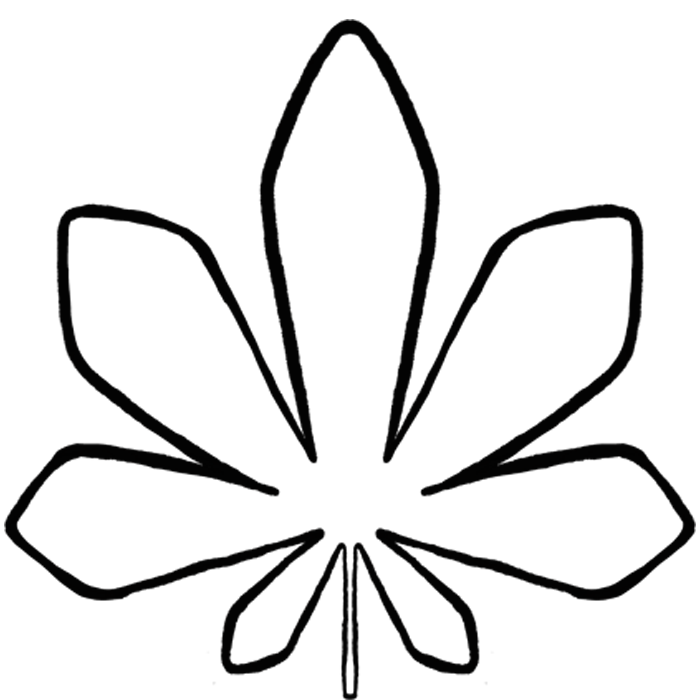
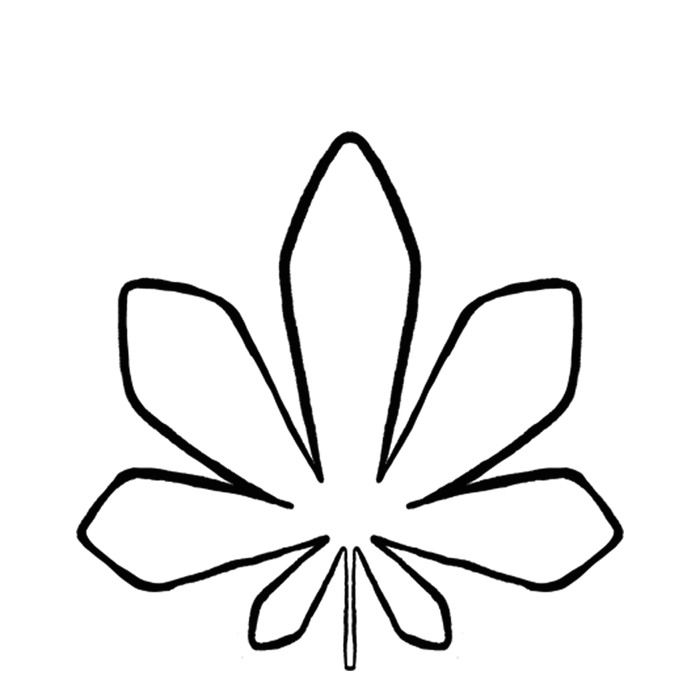
wip botanica desk

Changed region(s): [[0.0, 0.03, 0.93, 1.0], [0.6, 0.27, 1.0, 0.81], [0.84, 0.78, 0.87, 0.81]]

diff --git a/css/botanica.css b/css/botanica.css
@@ -34,7 +34,6 @@ ul.navbar{border-right:0.5rem solid #000;}
 .tradem{max-width:6.13rem;}
 /*--------------------------------------------------------------- M A I N ---------------------------------------------------------------*/  
 main{
-background-color:rgb(222, 217, 222);
 max-width:78.13rem; /*1250px*/
 margin:0 auto;}
 .briciole{
@@ -153,47 +152,57 @@ h2{
   font-weight:700;
   margin:14.57rem 0 9rem 0;}
 /*------------------------------------------ C O N T E N U T O -----------------------------------------------------------------------------*/
-.lamineuno{
-  max-width:50.25rem;
-  background-color: #87d7fa;
-  display:grid;
-  align-content:center;
-  justify-content:center;
-  grid-template-columns:repeat(6, 1fr);
-  margin:auto;}
-.formalaminauno{
-  border:1px solid red;
-  background-color: #fff;
-  max-width:100%; 
-  display:flex;
-  justify-content: center;
-  padding:3.43rem 0 3.43rem 0;}
+.elenco{display:grid;
+grid-template-columns:repeat(6, 1fr);
+gap:0;
+margin:0;
+padding:0;}
 
-.laminedue{
+.lamina{
+  max-width:8.13rem;
+  display:flex;
+  flex-direction: column;
+  justify-content: center;
+  align-items: center;
+  margin:0 auto;}
+.text{
+  font-family:'Karla', sans-serif;
+  font-size:0.94rem;
+  max-width:130px;}
+.pic{max-width:150%;}  
+
+
+
+
+
+
+
+
+
+
+
+
+
+
+/*.laminedue{
   max-width:32.96rem;
-  background-color: #c5b6b6;
   display:grid;
   grid-template-columns:repeat(4, 4fr);
   margin:auto;
   padding:3.43rem 0 0 0;}
 .formalaminadue{
-  border:1px solid red;
-  background-color: #fff;;
   max-width:100%;
   margin:auto;
   padding:3.43rem 0 3.43rem 0;}   
 
 .laminetre{max-width:16.38rem;
-  background-color: #65f098;
   display:grid;
   grid-template-columns:repeat(2, 2fr);
   margin:auto;}  
   .formalaminatre{
-    border:1px solid red;
-    background-color: #fff;;
     max-width:100%;
     margin:auto;
-    padding:3.43rem 0 3.43rem 0;}  
+    padding:3.43rem 0 3.43rem 0;}*/
 /*--------------------------------------------------------- F O O T E R -----------------------------------------------------------------*/    
 .down{background-color:#e9e9e5;}
 ul.footer{

diff --git a/botanica.html b/botanica.html
@@ -57,16 +57,63 @@
 
 <h2>FORMA DELLA LAMINA</h2>
 
-<div class="lamineuno">
-<img class="formalaminauno" src="immagini/aciculare.png">
-<img class="formalaminauno" src="immagini/lineare.png">
-<img class="formalaminauno" src="immagini/lanceolata.png">
-<img class="formalaminauno" src="immagini/ovatolanceolata.png">
-<img class="formalaminauno" src="immagini/ovata.png">
-<img class="formalaminauno" src="immagini/ovatooblunga.png">
+
+
+
+<div class="elenco">
+  <div class="lamina">
+    <img class="pic" src="immagini/aciculare.png">
+    <p class="text">Aciculare</p>
+  </div>
+
+  <div class="lamina">
+    <img class="pic" src="immagini/lineare.png">
+    <p class="text">Lineare</p>
+  </div>
+
+  <div class="lamina">
+    <img class="pic" src="immagini/lanceolata.png">
+    <p class="text">Lanceolata</p>
+  </div>
+
+  <div class="lamina">
+    <img class="pic" src="immagini/ovatolanceolata.png">
+    <p class="text">Ovato-lanceolata</p>
+  </div>
+
+  <div class="lamina">
+    <img class="pic" src="immagini/ovata.png">
+    <p class="text">Ovata</p>
+  </div>
+
+  <div class="lamina">
+    <img class="pic" src="immagini/ovatooblunga.png">
+    <p class="text">Ovato-oblunga</p>
+  </div>
+
+  </div>
 </div>
 
-<div class="laminedue">
+
+
+
+
+
+
+
+
+
+
+
+
+
+
+
+
+
+
+
+<!--<div class="laminedue">
 <img class="formalaminadue" src="immagini/obovata.png">
 <img class="formalaminadue" src="immagini/spatolata.png">
 <img class="formalaminadue" src="immagini/arrotondata.png">
@@ -86,8 +133,7 @@
 <img class="formalaminatre" src="immagini/ternata.png">
 <img class="formalaminatre" src="immagini/digitata.png">
 <img class="formalaminatre" src="immagini/pedata.png">
-</div>
-
+</div>-->
 
 </main>  
 <!--------------------------------------------------------------- F O O T E R ------------------------------------------------------------>

diff --git a/index.html b/index.html
@@ -60,8 +60,11 @@
   <h2 class="titolocards">15 SPECIE FACILI DA RICONOSCERE</h2>
 </div>
 
+
+
 <div class="specie">
 <div class="grid">
+
 <div class="item">
  <img class="erba" src="immagini/acetosellascheda2.png" loading="lazy">
 <div class="text">

diff --git a/css/style.css b/css/style.css
@@ -152,7 +152,7 @@ p{
 .erba{
   margin:0; 
   padding:0 0 1.32rem 0; 
-  max-width:102%; }
+  max-width:102%;}
 .bottoneuno{
   display:flex; 
   justify-content:end; 
